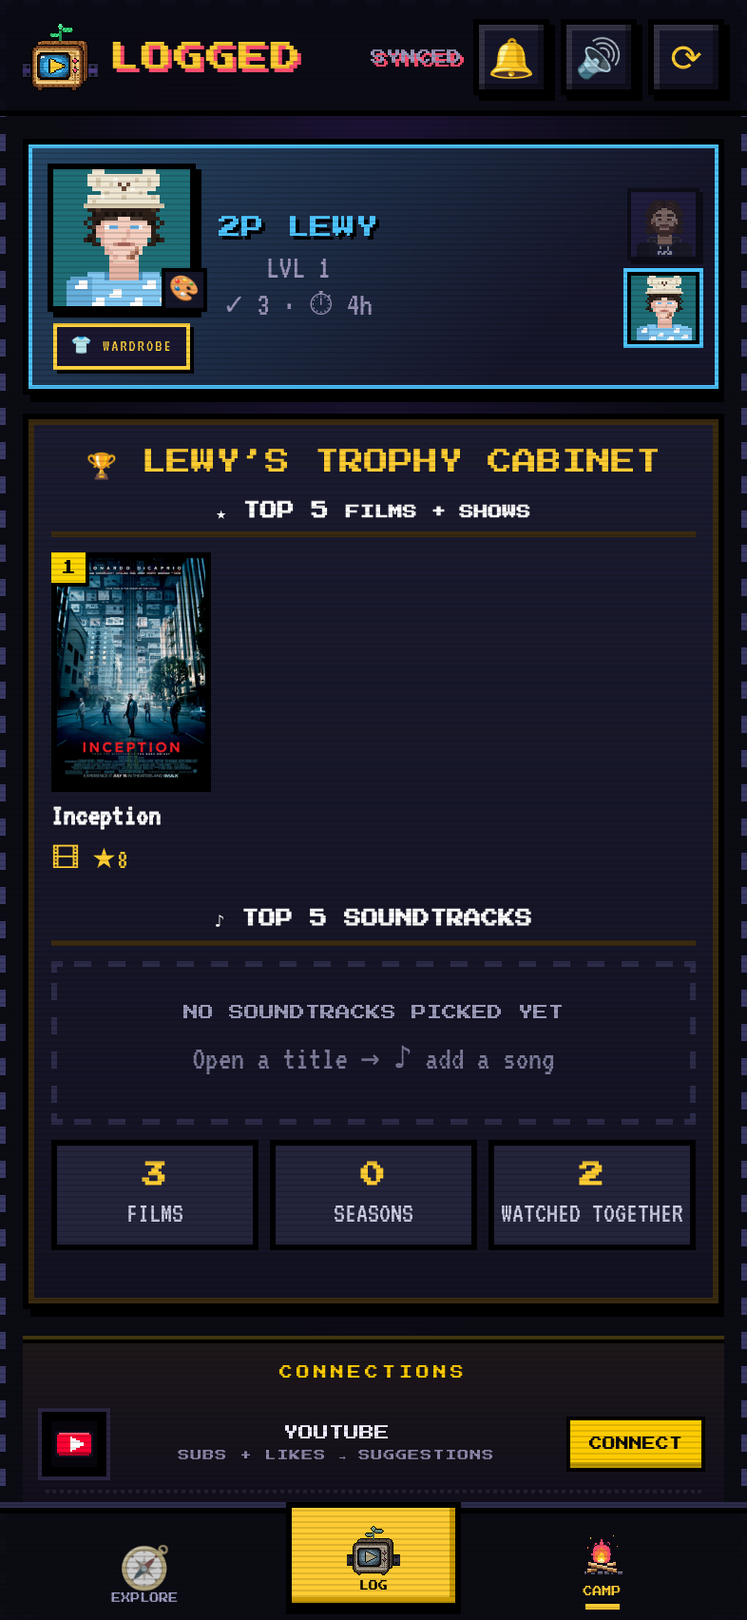
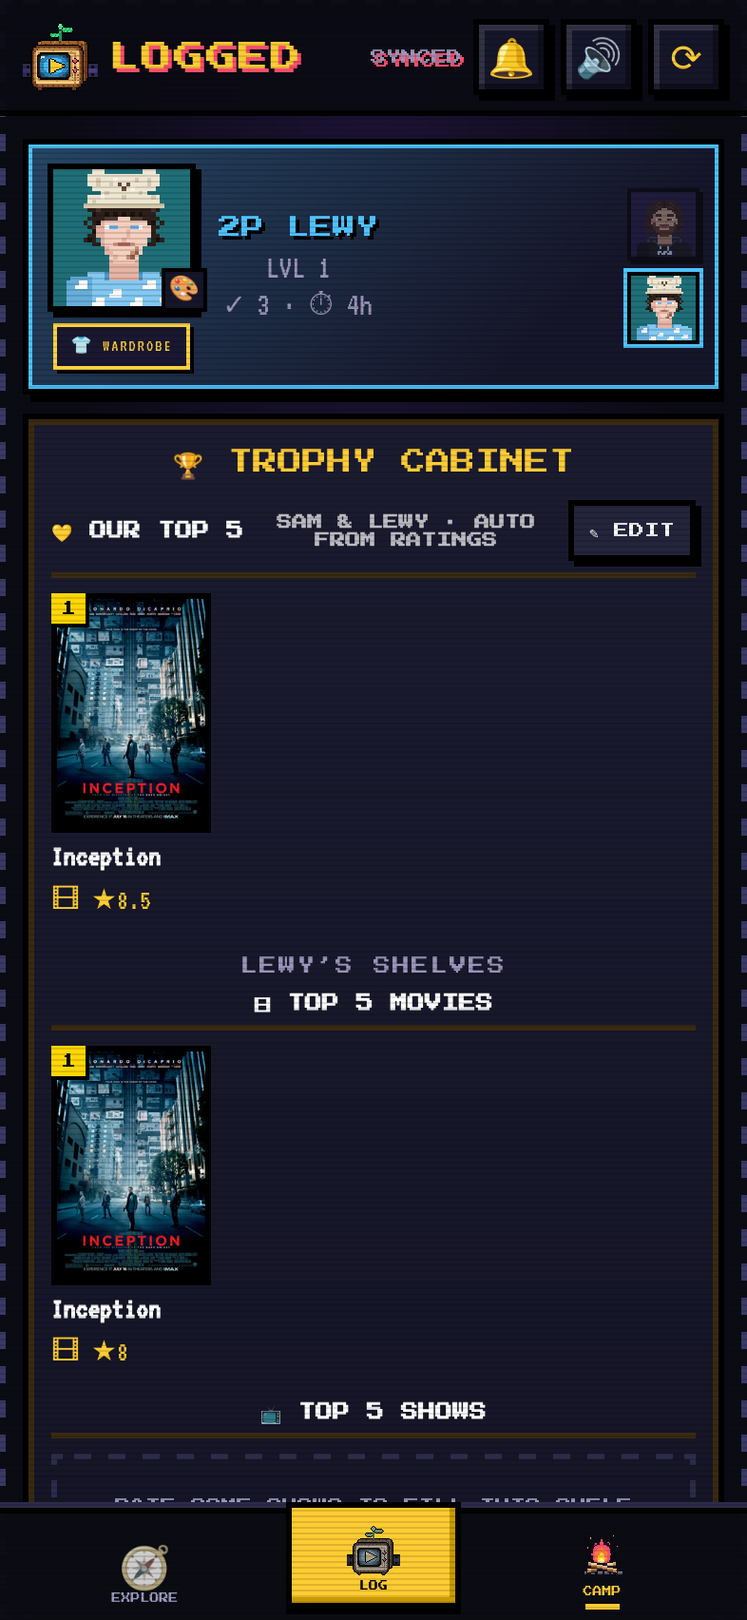
r58f: shared Our Top 5 first in cabinet; arc taps only on trusted taps

Changed region(s): [[0.0305, 0.2799, 0.9771, 0.9331]]

diff --git a/app/index.html b/app/index.html
@@ -1199,6 +1199,30 @@ body.gwon #dlg{z-index:1400}
 #gwp #adrow{display:flex;gap:6px;padding:6px 8px;flex:0 0 auto}#gwp #adb{flex:0 0 auto;max-height:42vh;overflow-y:auto;margin:0 8px 6px}
 #arch.archh{z-index:1500}#hbk58{position:fixed;inset:0;z-index:1499;background:rgba(0,0,0,.45)}
 #avPin{padding:3px;overflow:hidden;box-sizing:border-box}#avPin canvas{width:100%;height:100%;display:block;image-rendering:pixelated;box-shadow:inset 0 0 0 2px #4da3ff;outline:2px solid #4da3ff;outline-offset:-2px}#avPin.lewy canvas{outline-color:#4dd17a}
+#set58{position:fixed;inset:0;z-index:950;background:#0b0b14;overflow-y:auto;-webkit-overflow-scrolling:touch;overscroll-behavior:contain;display:none;padding:calc(10px + env(safe-area-inset-top)) 14px calc(30px + env(safe-area-inset-bottom))}#set58.open{display:block;animation:v58in .18s ease-out}
+.sth58{display:flex;align-items:center;gap:10px;margin-bottom:12px}.sth58 h2{margin:0;font-size:13px}.sth58 h2 small{display:block;font-size:9px;opacity:.7;margin-top:4px}
+.sg58{background:#16162a;border:3px solid #000;box-shadow:4px 4px 0 #000;margin:0 0 14px;padding:10px 12px}.sg58 h4{font:10px var(--pix);color:#ffcc33;margin:2px 0 8px}
+.st58{display:flex;align-items:center;justify-content:space-between;gap:10px;padding:10px 0;border-top:2px solid #22223a;width:100%;background:none;border-left:0;border-right:0;border-bottom:0;color:inherit;text-align:left;font:inherit;box-shadow:none}.sg58 h4+.st58{border-top:0}
+.st58 span{flex:1;min-width:0}.st58 b{display:block;font-size:18px;font-weight:normal}.st58 small{display:block;font-size:14px;opacity:.65}.st58 em{font-style:normal;font-size:22px;color:#ffcc33}.stb.warn b{color:#ff8fa3}
+.st58 input[type=checkbox]{position:absolute;opacity:0;width:1px;height:1px}.st58 i{flex:0 0 44px;height:24px;background:#2c2c4a;border:3px solid #000;position:relative}.st58 i::after{content:"";position:absolute;top:2px;left:2px;width:14px;height:14px;background:#9a94b8;transition:left .12s steps(3)}
+.st58 input:checked+i{background:#3ddc84}.st58 input:checked+i::after{left:22px;background:#fff}
+.st58 select{background:#000;color:#fff;border:3px solid #000;box-shadow:inset 0 0 0 2px #2c2c4a;font:16px inherit;padding:6px 8px;max-width:45%}
+.sn58{font:8px var(--pix);color:#9a94b8;margin:12px 0 4px}.sn58.dim{font:14px inherit;opacity:.6}.sti .ui-btn{font-size:8px;padding:6px 8px}
+#set58 .conn{margin:0}
+body.rm58 *{animation-duration:.01ms!important;transition-duration:.01ms!important}
+#set58 .conn h4{display:none}
+#set58 .st58 select{-webkit-appearance:none;appearance:none;background:#000 !important;color:#ffcc33 !important;font:9px var(--pix);padding:9px 26px 9px 10px;background-image:linear-gradient(45deg,transparent 50%,#ffcc33 50%),linear-gradient(135deg,#ffcc33 50%,transparent 50%)!important;background-position:calc(100% - 13px) 50%,calc(100% - 8px) 50%!important;background-size:5px 5px!important;background-repeat:no-repeat!important;border-radius:0}
+.tm58{max-height:62vh;overflow-y:auto;-webkit-overflow-scrolling:touch;overscroll-behavior:contain}.tm58 .h small{opacity:.6;margin-left:6px}.tm58 .via{color:#7cdcff}
+/* r58: hide scrollbars everywhere, keep scrolling */
+*{scrollbar-width:none;-ms-overflow-style:none}*::-webkit-scrollbar{display:none;width:0;height:0}
+/* r58: no zoom anywhere — double-tap (touch-action), input-focus zoom (>=16px) */
+html,body,body *{touch-action:manipulation}
+input,select,textarea{font-size:16px!important}
+body.ytfull58 #ytpage,body.ytfull58 body>main{pointer-events:none}
+.ot58 h4{display:flex;align-items:center;gap:8px;flex-wrap:wrap}.ot58 h4 small{flex:1;font-size:8px;opacity:.7}.ot58 .otb{font-size:8px;padding:6px 8px}
+.otl{list-style:none;margin:0;padding:0}.otl li{display:flex;align-items:center;gap:6px;padding:6px 0;border-top:2px solid #22223a}.otl li b{color:#ffcc33;width:18px}.otl li span{flex:1;min-width:0;overflow:hidden;text-overflow:ellipsis;white-space:nowrap;font-size:18px}.otl .ui-btn{font-size:9px;padding:6px 8px}
+.otadd{display:flex;align-items:center;gap:8px;margin:8px 0;font:8px var(--pix);color:#ffcc33}.otadd select{flex:1;min-width:0;background:#000;color:#fff;border:3px solid #000;padding:8px}
+.cbdv{font:9px var(--pix);color:#9a94b8;text-align:center;margin:14px 0 4px;letter-spacing:1px}
 </style></head><body>
 <div id="splash" aria-label="Logged"></div>
 <header><div class="hin">
@@ -5269,7 +5293,7 @@ var _ytDraw58 = ytDraw; ytDraw = function () { var F = YH.feed; if (F && F.rec &
 var _logItems58 = logItems; logItems = function () { var L = _logItems58.apply(this, arguments), by = function (t) { return L.filter(function (x) { return x.t === t; })[0]; };
   return [by('INTERESTED'), by('LOGGING'), { ic: '<span class="aplus">+</span>', t: 'LOG IT', main: 1, go: function () { $('fab').onclick(); } }, by('LOGGED')].filter(Boolean); };
 /* arc layout: Interested (far left) · Logging · LOG IT (top centre, highlighted) · Logged (right) */
-var _archOpen58 = archOpen; archOpen = function (key, items) { var r = _archOpen58.apply(this, arguments); if (key === 'log') { var P = [[12, 66], [31, 30], [50, 14], [80, 52]]; [].forEach.call(document.querySelectorAll('#arch [data-archi]'), function (b, i) { var p = P[i]; if (p && items.length === 4) { b.style.left = p[0] + '%'; b.style.top = p[1] + '%'; } if (items[i] && items[i].main) b.classList.add('main58'); }); } return r; };
+var _archOpen58 = archOpen; archOpen = function (key, items) { [].forEach.call(document.querySelectorAll('#arch'), function (x) { x.remove(); }); var r = _archOpen58.apply(this, arguments); if (key === 'log') { var P = [[12, 66], [31, 30], [50, 14], [80, 52]]; [].forEach.call(document.querySelectorAll('#arch [data-archi]'), function (b, i) { var p = P[i]; if (p && items.length === 4) { b.style.left = p[0] + '%'; b.style.top = p[1] + '%'; } if (items[i] && items[i].main) b.classList.add('main58'); }); } return r; };
 var _navHi58 = r56NavHi; r56NavHi = function () { _navHi58.apply(this, arguments); setTimeout(function () { var yt = $('ytpage') && $('ytpage').classList.contains('open'), C = document.querySelector('#nav [data-v=stats]'), E = document.querySelector('#nav [data-v=home]'); C && C.classList.toggle('on', !yt && view === 'stats'); if (yt && E) E.classList.add('on'); avPin(); }, 40); };
 var _renderHome58 = renderHome; renderHome = function () { var r = _renderHome58.apply(this, arguments); try { var V = $('v-home'); if (V && !$('q').value.trim() && !V.querySelector('#ytTile')) V.insertAdjacentHTML('afterbegin', '<button id="ytTile" class="ui-btn" aria-label="Open YouTube"><span class="yti58">' + (typeof ytI === 'function' ? ytI(34) : '▶') + '</span><span><b>YOUTUBE</b><small>For you · history · trailers · group watch</small></span><i>▶</i></button>'); } catch (e) {} return r; };
 document.addEventListener('click', function (e) { if (e.target.closest && e.target.closest('#ytTile')) { e.stopImmediatePropagation(); e.preventDefault(); SFX.tap && SFX.tap(); navTap('navYT'); r56NavHi(); } }, true);
@@ -5323,17 +5347,131 @@ var _archClose58 = archClose; archClose = function () { var b = $('hbk58'); if (
 /* ---------- r58e: CAMP — cabinet was hard-wired to Sam (statWho defaulted to 'sam') and used the COMBINED score; now the profile being viewed (defaults to the logged-in person), their own ratings/songs.
    Order: TOP 5 (films + shows) → TOP 5 SOUNDTRACKS → stats (LOGGED/HOURS dropped: already in the profile header) ---------- */
 try { statWho = me(); } catch (e) {}
+function shelf58(t, L, empty, tile) { return '<div class="cbs"><h4>' + t + '</h4>' + (L.length ? '<div class="cbrow">' + L.map(tile).join('') + '</div>' : uiState('empty', empty)) + '</div>'; }
 cabinetHtml = function () { var p = (typeof statWho !== 'undefined' && statWho) || me(), P2 = p === 'sam' ? 'SAM' : 'LEWY', rt = function (r) { return num(r[p + 'Rating']) || 0; };
   var W = rows.filter(function (r) { return !isYT(r) && isY(r[p + 'Watched']); }), mv = W.filter(function (r) { return r.type === 'Movie'; }), tv = W.filter(function (r) { return r.type === 'TV Show'; });
   var rated = W.filter(function (r) { return rt(r) > 0; }), avg = rated.length ? rated.reduce(function (t, r) { return t + rt(r); }, 0) / rated.length : 0, both = W.filter(function (r) { return isY(r.samWatched) && isY(r.lewyWatched); }).length;
-  var top5 = rated.slice().sort(function (a, b) { return rt(b) - rt(a) || b.row - a.row; }).slice(0, 5);
+  var srt = function (a, b) { return rt(b) - rt(a) || b.row - a.row; }, top5m = rated.filter(function (r) { return r.type === 'Movie'; }).sort(srt).slice(0, 5), top5t = rated.filter(function (r) { return r.type === 'TV Show'; }).sort(srt).slice(0, 5);
+  var yw = function (r) { return Object.keys(((r.ytw || {})[p]) || {}).length; }, topY = rows.filter(function (r) { return isYT(r) && (isY(r[p + 'Watched']) || r[p + 'Watched'] === 'As we speak' || yw(r)); }).sort(function (a, b) { return rt(b) - rt(a) || yw(b) - yw(a) || b.row - a.row; }).slice(0, 5);
+  var ytile = function (r, i) { var id = r.ytm && r.ytm.k === 'video' ? r.ytm.id : '', th = id ? 'https://i.ytimg.com/vi/' + id + '/mqdefault.jpg' : (posters[r.title] || ''); return '<button class="cbt cby" data-open="' + r.row + '"><span class="cbr">' + (i + 1) + '</span>' + (th ? '<img loading="lazy" src="' + esc(th) + '" alt="">' : '<i>▶</i>') + '<b>' + esc(r.title.replace(/ \(Channel\)$/, '')) + '</b><small>' + (rt(r) ? '★' + rt(r) : esc((r.ytm && r.ytm.ch) || 'YOUTUBE')) + '</small></button>'; };
   var S = {}; rows.forEach(function (r) { var L = ((r.themeL || {})[p] || []).slice(), o = (r.theme || {})[p]; if (o && o.n) L.push(o); L.forEach(function (c, i) { var k = (c.n + '|' + (c.a || '')).toLowerCase(); if (!S[k]) S[k] = { n: c.n, a: c.a || '', pv: c.pv || '', c: 1, t: r.title, sc: rt(r), i: i }; }); });
   var snd = Object.keys(S).map(function (k) { return S[k]; }).sort(function (a, b) { return b.sc - a.sc || a.i - b.i || a.n.localeCompare(b.n); }).slice(0, 5); R56.snd = snd;
   var tile = function (r, i) { var ps = posters[r.title]; return '<button class="cbt" data-open="' + r.row + '"><span class="cbr">' + (i + 1) + '</span>' + (ps && /^http|^data:/.test(ps) ? '<img loading="lazy" src="' + esc(ps) + '" alt="">' : '<i>' + esc(r.title[0]) + '</i>') + '<b>' + esc(baseTitle(r.title)) + '</b><small>' + (r.type === 'TV Show' ? '📺 ' : '🎞 ') + '★' + rt(r) + '</small></button>'; };
-  return '<section class="cab ' + p + '" id="cab" data-who="' + p + '"><h3 class="ui-h">🏆 ' + P2 + '\u2019S TROPHY CABINET</h3>' +
-    '<div class="cbs"><h4>★ TOP 5 <small>FILMS + SHOWS</small></h4>' + (top5.length ? '<div class="cbrow">' + top5.map(tile).join('') + '</div>' : uiState('empty', 'RATE SOME TITLES TO FILL THIS SHELF')) + '</div>' +
+  return '<section class="cab ' + p + '" id="cab" data-who="' + p + '"><h3 class="ui-h">🏆 TROPHY CABINET</h3><div class="cbdv">' + P2 + '\u2019S SHELVES</div>' +
+    shelf58('🎞 TOP 5 MOVIES', top5m, 'RATE SOME FILMS TO FILL THIS SHELF', tile) + shelf58('📺 TOP 5 SHOWS', top5t, 'RATE SOME SHOWS TO FILL THIS SHELF', tile) +
     '<div class="cbs"><h4>♪ TOP 5 SOUNDTRACKS</h4>' + (snd.length ? '<ol class="cbsnd">' + snd.map(function (s, i) { return '<li><button class="oxmp" data-cbsnd="' + i + '" aria-label="Play ' + esc(s.n) + '">▶</button><span><b>' + esc(s.n) + '</b> <small>' + esc(s.a) + ' · ' + esc(baseTitle(s.t)) + '</small></span></li>'; }).join('') + '</ol>' : uiState('empty', 'NO SOUNDTRACKS PICKED YET', 'Open a title → ♪ add a song')) + '</div>' +
+    shelf58('▶ TOP 5 YOUTUBE', topY, 'LOG SOME YOUTUBE TO FILL THIS SHELF', ytile) +
     '<div class="cbst">' + [[mv.length, 'FILMS'], [tv.length, 'SEASONS'], [both, 'WATCHED TOGETHER']].map(function (x) { return '<div><b>' + x[0] + '</b><small>' + x[1] + '</small></div>'; }).join('') + '</div></section>'; };
 (function () { var fit = function () { var a = $('avPin'), b = $('inboxB'); if (a && b && b.offsetWidth) { a.style.width = a.style.minWidth = a.style.maxWidth = b.offsetWidth + 'px'; a.style.height = b.offsetHeight + 'px'; a.style.flex = '0 0 ' + b.offsetWidth + 'px'; } }; setTimeout(fit, 900); setInterval(fit, 3000); window.addEventListener('resize', fit); })();
+/* ---------- r58f: shared OUR TOP 5 (both edit; server-side; auto-filled from combined ratings until edited) — first in the cabinet ---------- */
+var OT58 = { o: null, edit: false };
+function ourTopList58() { var W = rows.filter(function (r) { return !isYT(r) && (isY(r.samWatched) || isY(r.lewyWatched)); });
+  if (OT58.o && OT58.o.list) return OT58.o.list.map(function (t) { return rows.filter(function (r) { return r.title === t; })[0]; }).filter(Boolean);
+  return W.filter(function (r) { return score(r) > 0; }).sort(function (a, b) { return score(b) - score(a) || b.row - a.row; }).slice(0, 5); }
+function ourTopHtml58() { var L = ourTopList58(), auto = !(OT58.o && OT58.o.list);
+  var tile = function (r, i) { var ps = posters[r.title]; return '<button class="cbt" data-open="' + r.row + '"><span class="cbr">' + (i + 1) + '</span>' + (ps && /^http|^data:/.test(ps) ? '<img loading="lazy" src="' + esc(ps) + '" alt="">' : '<i>' + esc(r.title[0]) + '</i>') + '<b>' + esc(baseTitle(r.title)) + '</b><small>' + (r.type === 'TV Show' ? '📺' : '🎞') + (score(r) ? ' ★' + (Math.round(score(r) * 10) / 10) : '') + '</small></button>'; };
+  var head = '<h4>💛 OUR TOP 5 <small>SAM & LEWY' + (auto ? ' · AUTO FROM RATINGS' : ' · EDITED BY ' + String(OT58.o.by || '').toUpperCase()) + '</small><button class="ui-btn otb" data-ot="edit">' + (OT58.edit ? '✓ DONE' : '✎ EDIT') + '</button></h4>';
+  if (!OT58.edit) return '<div class="cbs ot58">' + head + (L.length ? '<div class="cbrow">' + L.map(tile).join('') + '</div>' : uiState('empty', 'RATE SOME TITLES TOGETHER')) + '</div>';
+  var have = {}; L.forEach(function (r) { have[r.title] = 1; });
+  var cand = rows.filter(function (r) { return !isYT(r) && (isY(r.samWatched) || isY(r.lewyWatched)) && !have[r.title]; }).sort(function (a, b) { return (score(b) || 0) - (score(a) || 0); });
+  return '<div class="cbs ot58 ed">' + head + '<ol class="otl">' + L.map(function (r, i) { return '<li><b>' + (i + 1) + '</b><span>' + esc(baseTitle(r.title)) + '</span><button class="ui-btn" data-ot="up:' + i + '" aria-label="Move up"' + (i ? '' : ' disabled') + '>▲</button><button class="ui-btn" data-ot="dn:' + i + '" aria-label="Move down"' + (i < L.length - 1 ? '' : ' disabled') + '>▼</button><button class="ui-btn" data-ot="rm:' + i + '" aria-label="Remove">✕</button></li>'; }).join('') + '</ol>' +
+    (L.length < 5 ? '<label class="otadd">+ ADD <select data-otadd="1"><option value="">Pick a title…</option>' + cand.map(function (r) { return '<option value="' + esc(r.title) + '">' + esc(r.title) + '</option>'; }).join('') + '</select></label>' : '') + '<button class="ui-btn" data-ot="auto">↺ RESET TO AUTO</button></div>'; }
+function ourTopSave58(L) { var list = L.map(function (r) { return r.title; }); OT58.o = { list: list, by: me() }; ourTopPaint58(); run('setOurTop', [list], function (o) { if (o) OT58.o = o; savedTick('SAVED · BOTH PHONES'); ourTopPaint58(); }, function () { toast('⚠ Not saved — try again'); }); }
+function ourTopPaint58() { var x = document.querySelector('#cab .ot58'); if (x) x.outerHTML = ourTopHtml58(); }
+setTimeout(function () { run('getOurTop', [], function (o) { OT58.o = o && o.list && o.list.length ? o : null; ourTopPaint58(); }, function () {}); }, 1500);
+var _cab58f = cabinetHtml; /* keep header */ cabinetHtml = function () { return _cab58f.apply(this, arguments).replace(/(<h3 class="ui-h">[^<]*<\/h3>)/, '$1' + ourTopHtml58()); };
+document.addEventListener('click', function (e) { var b = e.target.closest && e.target.closest('#cab [data-ot]'); if (!b) return; e.stopImmediatePropagation(); e.preventDefault(); SFX.tap && SFX.tap(); var a = b.dataset.ot, L = ourTopList58();
+  if (a === 'edit') { OT58.edit = !OT58.edit; return ourTopPaint58(); } if (a === 'auto') return confirm8('↺', 'RESET OUR TOP 5?', 'Back to auto from your ratings', 'RESET', function () { OT58.o = null; run('setOurTop', [[]], function () { OT58.o = null; ourTopPaint58(); }); ourTopPaint58(); });
+  var q = a.split(':'), i = +q[1]; if (q[0] === 'up' && i > 0) { var t = L[i]; L[i] = L[i - 1]; L[i - 1] = t; } else if (q[0] === 'dn' && i < L.length - 1) { var t2 = L[i]; L[i] = L[i + 1]; L[i + 1] = t2; } else if (q[0] === 'rm') L.splice(i, 1); else return; ourTopSave58(L); }, true);
+document.addEventListener('change', function (e) { var s = e.target; if (!s.dataset || !s.dataset.otadd || !s.value) return; var L = ourTopList58(), r = rows.filter(function (x) { return x.title === s.value; })[0]; if (r && L.length < 5) { L.push(r); ourTopSave58(L); } }, true);
+
+/* ===== r58: EXPLORE + CAMP arcs (same style as LOG) and a real per-person SETTINGS page (auto-saved server-side) ===== */
+function mainTo58(el) { var Mn = document.querySelector('body>main'); if (el && Mn) Mn.scrollTop = Math.max(0, el.getBoundingClientRect().top - Mn.getBoundingClientRect().top + Mn.scrollTop - 8); }
+function trvHub58() { trvShow('<div class="trvlob"><div class="big">' + (typeof tvi === 'function' ? tvi('daily', 64) : '🧠') + '</div><p>TRIVIA</p><button class="ui-btn y" data-trv="daily">📅 TODAY\u2019S DAILY</button><button class="ui-btn" data-trv="live">⚔ LIVE 1v1</button></div>'); }
+function exItems58() { return [{ ic: '<span class="nyti">' + (typeof ytI === 'function' ? ytI(22) : '▶') + '</span>', t: 'YOUTUBE', go: function () { navTap('navYT'); r56NavHi(); } },
+  { ic: '<span>🧭</span>', t: 'BROWSE', main: 1, go: function () { var yp = $('ytpage'); if (yp && yp.classList.contains('open')) { var x = yp.querySelector('[data-ytx]'); x && x.click(); } show('home'); document.querySelector('body>main').scrollTop = 0; r56NavHi(); } },
+  { ic: '<span>🧠</span>', t: 'TRIVIA', go: function () { trvHub58(); } }]; }
+function campGo58(sel) { show('stats'); r56NavHi(); setTimeout(function () { if (!sel) { document.querySelector('body>main').scrollTop = 0; return; } mainTo58(document.querySelector(sel)); }, 120); }
+function campItems58() { return [{ ic: '<span>👕</span>', t: 'WARDROBE', go: function () { try { wrOpen(me()); } catch (e) { campGo58(); } } },
+  { ic: '<span>🎖</span>', t: 'BADGES', go: function () { campGo58('#bdg56,.bdgs,[id^=bdg]'); } },
+  { ic: '<span class="ncamp"></span>', t: 'PROFILE', main: 1, go: function () { statWho = me(); campGo58(); } },
+  { ic: '<span>📊</span>', t: 'STATS', go: function () { campGo58('#st52,.sgrid'); } },
+  { ic: '<span>⚙</span>', t: 'SETTINGS', go: function () { setOpen58(); } }]; }
+window.addEventListener('click', function (e) { var b = e.target.closest && e.target.closest('#nav [data-v=home],#nav [data-v=stats]'); if (!b || !e.isTrusted) return; e.stopImmediatePropagation(); e.preventDefault(); SFX.tap && SFX.tap();
+  var k = b.dataset.v === 'home' ? 'explore' : 'camp'; if (R56.arch && R56.arch.key === k) { archClose(); (k === 'explore' ? exItems58()[1] : campItems58()[2]).go(); return; }
+  var L = k === 'explore' ? exItems58() : campItems58(); [].forEach.call(document.querySelectorAll('#arch'), function (x) { x.remove(); }); R56.arch = null; archOpen(k, L, { label: k === 'explore' ? 'Explore menu' : 'Camp menu', cls: 'archl' });
+  var A = $('arch'); if (A) { var P = k === 'explore' ? [[18, 58], [50, 22], [82, 58]] : [[10, 70], [27, 34], [50, 16], [73, 34], [90, 70]];
+    [].forEach.call(A.querySelectorAll('[data-archi]'), function (x, i) { if (P[i]) { x.style.left = P[i][0] + '%'; x.style.top = P[i][1] + '%'; } if (L[i] && L[i].main) x.classList.add('main58'); }); var cs = A.querySelector('.ncamp'), src = document.querySelector('#nav [data-v=stats] .ncamp'); if (cs && src) cs.innerHTML = src.innerHTML; } }, true);
+/* ---------- SETTINGS ---------- */
+var SETL = (function () { try { return JSON.parse(localStorage['lg_set_' + me()] || '{}'); } catch (e) { return {}; } })();
+var SETD = { nLogs: true, nTrivia: true, nEps: true, nRate: true, qOn: false, qFrom: 22, qTo: 8, vol: 100, adAuto: true, sHist: true, sLogged: true, sInt: true, sTrl: true, ytNoShorts: false, ytPause: false, rm: false, fs: 100, tab: 'home' };
+function sv(k) { return k in SETL ? SETL[k] : SETD[k]; }
+function setPut58(k, v) { SETL[k] = v; try { localStorage['lg_set_' + me()] = JSON.stringify(SETL); } catch (e) {} setApply58(); var o = {}; o[k] = v; run('setSettings', [o], function () { savedTick && savedTick('SAVED'); }, function () { toast('⚠ Not saved to server — kept on this phone'); }); }
+setTimeout(function () { run('getSettings', [], function (s) { if (s && typeof s === 'object') { SETL = Object.assign({}, SETL, s); try { localStorage['lg_set_' + me()] = JSON.stringify(SETL); } catch (e) {} setApply58(); } }, function () {}); }, 1200);
+function setApply58() { document.body.classList.toggle('rm58', !!sv('rm')); var Mn = document.querySelector('body>main'); if (Mn) Mn.style.zoom = sv('fs') === 100 ? '' : (sv('fs') / 100); try { YH.nosh = !!sv('ytNoShorts'); } catch (e) {} try { TVP = !!sv('nTrivia'); localStorage.lg_tvpush = TVP ? '1' : '0'; } catch (e) {} }
+setApply58(); setTimeout(function () { var t = sv('tab'); if (t && t !== 'home') { try { if (t === 'int') navTap('navInt'); else if (t === 'logging') navTap('navLog'); else show(t); r56NavHi(); } catch (e) {} } }, 600);
+/* wiring: player volume, ad-break auto-open, YT rec sources, history pause */
+var _trlQ58 = trlQ; trlQ = function () { var q = _trlQ58.apply(this, arguments); return sv('vol') < 100 && !/[?&]vol=/.test(q) ? q + '&vol=' + sv('vol') : q; };
+var _adStart58s = adStart; adStart = function () { if (AD2.auto && !sv('adAuto')) { AD2.auto = false; ADB.still = 0; return; } return _adStart58s.apply(this, arguments); };
+var _ytSeeds58 = ytSeeds; ytSeeds = function () { var keep = { hist: sv('sHist'), logged: sv('sLogged'), int: sv('sInt'), trl: sv('sTrl') }; if (keep.hist && keep.logged && keep.int && keep.trl) return _ytSeeds58.apply(this, arguments);
+  var p = me(), s = [], add = function (x) { x = String(x || '').trim(); if (x && s.indexOf(x) < 0) s.push(x); };
+  if (keep.hist) try { ytSecHist().slice(0, 12).forEach(function (v) { v.ch && add(v.ch); }); } catch (e) {}
+  if (keep.logged) rows.filter(isYT).filter(function (r) { return isY(r[p + 'Watched']) || r[p + 'Watched'] === 'As we speak'; }).forEach(function (r) { add((r.ytm && r.ytm.ch) || r.title.replace(/ \(Channel\)$/, '')); });
+  if (keep.int) try { ytSecInt().forEach(function (v) { add(v.ch || v.t); }); } catch (e) {}
+  s = s.slice(0, 3); if (keep.trl) rows.filter(function (r) { return !isYT(r) && !isWatched(r); }).slice(-2).forEach(function (r) { add(baseTitle(r.title) + ' official trailer'); }); return s.slice(0, 4); };
+var _ytVid58 = ytVid; ytVid = function () { if (!sv('ytPause')) return _ytVid58.apply(this, arguments); var keep = localStorage.lg_ythist; try { return _ytVid58.apply(this, arguments); } finally { if (keep == null) localStorage.removeItem('lg_ythist'); else localStorage.lg_ythist = keep; } };
+function tg58(k, t, sub) { return '<label class="st58"><span><b>' + t + '</b>' + (sub ? '<small>' + sub + '</small>' : '') + '</span><input type="checkbox" role="switch" data-set="' + k + '"' + (sv(k) ? ' checked' : '') + '><i></i></label>'; }
+function sel58(k, t, opts, sub) { return '<label class="st58"><span><b>' + t + '</b>' + (sub ? '<small>' + sub + '</small>' : '') + '</span><select data-setsel="' + k + '">' + opts.map(function (o) { return '<option value="' + o[0] + '"' + (String(sv(k)) === String(o[0]) ? ' selected' : '') + '>' + o[1] + '</option>'; }).join('') + '</select></label>'; }
+function btn58(a, t, sub, cls) { return '<button class="st58 stb ' + (cls || '') + '" data-seta="' + a + '"><span><b>' + t + '</b>' + (sub ? '<small>' + sub + '</small>' : '') + '</span><em>›</em></button>'; }
+function grp58(t, h) { return '<section class="sg58"><h4>' + t + '</h4>' + h + '</section>'; }
+function setHtml58() { var p = me(), hrs = []; for (var i = 0; i < 24; i++) hrs.push([i, (i % 12 || 12) + (i < 12 ? 'am' : 'pm')]);
+  var nf = (NFM[p] || []), hid = Object.keys(INT[p] || {}).filter(function (k) { return INT[p][k].v === 'n'; });
+  return '<div class="sth58"><button class="ui-btn" data-seta="close">◀ BACK</button><h2 class="ui-h">⚙ SETTINGS <small>' + (p === 'sam' ? 'SAM' : 'LEWY') + ' · SAVES AUTOMATICALLY</small></h2></div>' +
+    grp58('👤 PROFILE', btn58('outfit', 'Outfit', 'Wardrobe — what your avatar wears') + btn58('bg', 'Background', 'Your Camp scene')) +
+    grp58('🔗 CONNECTIONS', '<div id="setConn">' + (typeof connCard === 'function' ? connCard(p) : '') + '</div>') +
+    grp58('🔔 NOTIFICATIONS', tg58('nLogs', (p === 'sam' ? 'Lewy' : 'Sam') + ' logs something', 'Finished / started / rated') + tg58('nEps', 'New episodes & streaming changes') + tg58('nRate', '“Rate it?” after watching') + tg58('qOn', 'Quiet hours', 'No pings in this window (Sydney time)') + (sv('qOn') ? sel58('qFrom', 'From', hrs) + sel58('qTo', 'Until', hrs) : '')) +
+    grp58('▶ PLAYBACK', sel58('vol', 'Video volume', [[100, '100%'], [75, '75%'], [50, '50%'], [25, '25%']], 'Starting volume for videos & trailers') + tg58('adAuto', 'Ad-break game opens itself', 'When an ad starts, pop up a minigame')) +
+    grp58('📺 YOUTUBE', '<p class="sn58">RECOMMENDATIONS USE</p>' + tg58('sHist', 'Your YouTube history') + tg58('sLogged', 'Channels you logged') + tg58('sInt', 'Videos you saved (♥)') + tg58('sTrl', 'Trailers for titles on your list') + tg58('ytNoShorts', 'Hide Shorts') + tg58('ytPause', 'Pause watch history', 'Videos you open aren\u2019t added') + btn58('ythclr', 'Clear watch history', 'On this phone', 'warn')) +
+    grp58('🧠 TRIVIA', tg58('nTrivia', 'Daily quiz reminder', 'Ping at 9pm + when the other person finishes')) +
+    grp58('🖥 DISPLAY', tg58('rm', 'Reduce motion', 'Fewer animations') + tg58('snd', 'App sounds', 'Bleeps & SFX') + sel58('fs', 'Text size', [[90, 'Small'], [100, 'Normal'], [110, 'Large'], [120, 'Extra large']]) + sel58('tab', 'Open on', [['home', 'Explore'], ['all', 'Logged'], ['int', 'Interested'], ['logging', 'Logging'], ['stats', 'Camp']])) +
+    grp58('🔒 PRIVACY & DATA', '<p class="sn58">NOT FOR ME (' + nf.length + ')</p>' + (nf.length ? nf.map(function (t) { return '<div class="st58 sti"><span><b>' + esc(t) + '</b></span><button class="ui-btn" data-setnfm="' + esc(t) + '">RESTORE</button></div>'; }).join('') : '<p class="sn58 dim">Nothing hidden</p>') +
+      '<p class="sn58">HIDDEN FROM INTERESTED (' + hid.length + ')</p>' + (hid.length ? hid.map(function (k) { var o = INT[p][k]; return '<div class="st58 sti"><span><b>' + esc(o.t || k.replace(/^\w+:/, '')) + '</b></span><button class="ui-btn" data-setunhide="' + esc(k) + '">UN-HIDE</button></div>'; }).join('') : '<p class="sn58 dim">Nothing hidden</p>') +
+      btn58('rsclr', 'Clear search history', 'App + YouTube searches', 'warn') + btn58('mhclr', 'Clear Mood Pick history', '', 'warn') + btn58('export', 'Export my data', 'Download a JSON file')) +
+    grp58('ℹ ABOUT', '<div class="st58"><span><b>Version</b><small>' + esc(window.APPV58 || 'r58') + '</small></span></div>' + btn58('new', 'What\u2019s new') + btn58('bug', 'Report a bug', 'Opens a GitHub issue')); }
+function setOpen58() { archClose(); var x = $('set58'); if (!x) { document.body.insertAdjacentHTML('beforeend', '<div id="set58" role="dialog" aria-label="Settings"></div>'); x = $('set58'); } SETL.snd = !muted; x.innerHTML = setHtml58(); x.classList.add('open'); x.scrollTop = 0; }
+function setRedraw58() { var x = $('set58'); if (!x || !x.classList.contains('open')) return; var st = x.scrollTop; SETL.snd = !muted; x.innerHTML = setHtml58(); x.scrollTop = st; }
+document.addEventListener('change', function (e) { var t = e.target; if (!t.closest || !t.closest('#set58')) return;
+  if (t.dataset.set) { if (t.dataset.set === 'snd') { if (t.checked === muted) $('mute').onclick(); return; } setPut58(t.dataset.set, t.checked); if (t.dataset.set === 'qOn') setRedraw58(); if (/^s(Hist|Logged|Int|Trl)$/.test(t.dataset.set)) { try { YH.feed = null; } catch (x) {} } }
+  if (t.dataset.setsel) { var v = t.value; setPut58(t.dataset.setsel, /^\d+$/.test(v) ? +v : v); } }, true);
+document.addEventListener('click', function (e) { var b = e.target.closest && e.target.closest('#set58 [data-seta],#set58 [data-setnfm],#set58 [data-setunhide]'); if (!b) return; e.stopImmediatePropagation(); e.preventDefault(); SFX.tap && SFX.tap(); var a = b.dataset.seta, p = me();
+  if (b.dataset.setnfm) { run('setNotForMe', [b.dataset.setnfm, false], function (o) { if (o) NFM = o; setRedraw58(); savedTick('RESTORED'); }); return; }
+  if (b.dataset.setunhide) { intSet(b.dataset.setunhide, ''); setTimeout(setRedraw58, 300); return; }
+  if (a === 'close') return $('set58').classList.remove('open');
+  if (a === 'outfit') { $('set58').classList.remove('open'); return wrOpen(p); }
+  if (a === 'bg') { $('set58').classList.remove('open'); campGo58(); return setTimeout(function () { var x = document.querySelector('[data-bgpick="' + p + '"]'); x && x.click(); }, 300); }
+  if (a === 'ythclr') return confirm8('🗑', 'CLEAR HISTORY?', 'YouTube watch history on this phone', 'CLEAR', function () { localStorage.removeItem('lg_ythist'); savedTick('CLEARED'); });
+  if (a === 'rsclr') return confirm8('🗑', 'CLEAR SEARCHES?', 'App + YouTube recent searches', 'CLEAR', function () { RS = []; localStorage.lg_recentq = '[]'; try { YRS = []; localStorage.lg_ytrs = '[]'; } catch (x) {} savedTick('CLEARED'); });
+  if (a === 'mhclr') return confirm8('🗑', 'CLEAR MOOD HISTORY?', 'Your past Mood Pick answers', 'CLEAR', function () { run('clearMoodHist', [], function () { savedTick('CLEARED'); }); });
+  if (a === 'export') { var d = { exported: new Date().toISOString(), who: p, rows: rows, interested: INT[p] || {}, notForMe: NFM[p] || [], settings: SETL, ytHistory: ytLS('lg_ythist') }, bl = new Blob([JSON.stringify(d, null, 1)], { type: 'application/json' }), u = URL.createObjectURL(bl), l = document.createElement('a'); l.href = u; l.download = 'logged-' + p + '-' + new Date().toISOString().slice(0, 10) + '.json'; document.body.appendChild(l); l.click(); setTimeout(function () { l.remove(); URL.revokeObjectURL(u); }, 1000); return; }
+  if (a === 'new') return confirm8('✨', 'WHAT\u2019S NEW', 'Explore / Log / Camp menus · Settings · Group Watch · YouTube menu & descriptions · trivia sound fix on iPhone · your own trophy cabinet', 'NICE', function () {});
+  if (a === 'bug') return window.open('https://github.com/isolaow/logged/issues/new?title=' + encodeURIComponent('Bug: ') + '&body=' + encodeURIComponent('Who: ' + p + '\nDevice: ' + navigator.userAgent + '\n\nWhat happened:\n'), '_blank'); }, true);
+/* ---------- r58: search results — no 3-cap; TITLES section (all pages) + PERSON · FILMOGRAPHY section, scrollable ---------- */
+var _renderTm58 = renderTm; renderTm = function (el, r, n, box) { if (!r || r.v !== 2 || !r.results || !r.results.length) return _renderTm58.apply(this, arguments);
+  var T = r.results.filter(function (x) { return !x.via; }), V = r.results.filter(function (x) { return x.via; }), i0 = 0;
+  var tile = function (x) { var k = box + (i0++); TM.res[k] = x; return '<button class="tm" data-tm="' + k + '">' + tmPoster(x.poster) + '<span class="ti"><b>' + esc(x.title) + '</b><small>' + (x.year || '????') + ((x.genres || []).length ? ' · ' + esc(x.genres.slice(0, 2).join(', ')) : '') + '</small>' + (x.via ? '<small class="via">' + esc(String(x.via).replace(/^[^(]*\(/, '').replace(/\)$/, '')) + '</small>' : '') + '</span>' + (inLog(x) ? '<span class="il">IN LOG</span>' : '') + '<span class="ty">' + (x.tv ? 'TV' : 'MOVIE') + '</span></button><div class="seas" id="se_' + k + '"></div>'; };
+  var ppl = (r.people || []).map(function (p) { return p.name; }), personFirst = V.length && T.length < 3;
+  var tH = T.length ? '<div class="h">🎬 TITLES <small>' + T.length + '</small></div>' + T.map(tile).join('') : '', vH = V.length ? '<div class="h">👤 ' + esc(ppl.join(' · ').toUpperCase()) + ' · FILMOGRAPHY <small>' + V.length + '</small></div>' + V.map(tile).join('') : '';
+  el.innerHTML = '<div class="tm58">' + (personFirst ? vH + tH : tH + vH) + '<div class="hint" style="font-size:13px">Data &amp; posters: TMDB</div></div>';
+  try { if (typeof pxPaint === 'function') pxPaint(); } catch (e) {} };
+/* r58: block pinch-zoom on every tab (iOS ignores user-scalable=no) */
+['gesturestart', 'gesturechange', 'gestureend'].forEach(function (ev) { document.addEventListener(ev, function (e) { e.preventDefault(); }, { passive: false }); });
+document.addEventListener('touchmove', function (e) { if (e.touches && e.touches.length > 1) e.preventDefault(); }, { passive: false });
+/* r58: ghost-tap guard — after a video opens, the list shifts/re-renders under the finger and iOS's delayed synthetic click lands on another card.
+   Card taps are ignored for 700ms after any open and while the full player is open; the list behind the player is non-interactive. */
+var GT58 = { at: 0 };
+var _ytnOpenGT = ytnOpen; ytnOpen = function (id) { var now = Date.now(); if (GT58.at && now - GT58.at < 700 && YTX.id && YTX.id !== id) { try { ytLoadLog('ghost', id, false); } catch (e) {} return; } GT58.at = now; return _ytnOpenGT.apply(this, arguments); };
+window.addEventListener('click', function (e) { var c = e.target.closest && e.target.closest('#ytpage [data-ytv],#ytpage .ytth,#ytdp [data-ytv]'); if (!c) return; var P = $('ytp'), full = P && P.classList.contains('open') && !P.classList.contains('mini');
+  if (Date.now() - GT58.at < 700 || full) { e.stopImmediatePropagation(); e.preventDefault(); try { ytLoadLog('ghost-tap', c.dataset.ytid || '', false); } catch (x) {} } }, true);
+(function () { var P = $('ytp'); if (!P) return; var f = function () { document.body.classList.toggle('ytfull58', P.classList.contains('open') && !P.classList.contains('mini')); }; new MutationObserver(f).observe(P, { attributes: true, attributeFilter: ['class'] }); f(); })();
 
 </script></body></html>

diff --git a/tests/set58.steps.js b/tests/set58.steps.js
@@ -1,0 +1,17 @@
+(async () => { const out = {}; await p.evaluate(() => { const s = document.getElementById('splash'); s && s.remove(); }); const arc = () => p.evaluate(() => [...document.querySelectorAll('#arch [data-archi]')].map(b => ({ t: b.innerText.trim().replace(/\s+/g, ' '), x: Math.round(b.getBoundingClientRect().left), m: b.classList.contains('main58') })).sort((a, b) => a.x - b.x).map(o => o.t + (o.m ? '*' : '')));
+await p.evaluate(() => navTap('all')); await p.waitForTimeout(400);
+await p.tap('#nav [data-v=home]'); await p.waitForTimeout(400); out.exArc = await arc(); await p.screenshot({ path: '/workspace/logged-site/shots/r49_arc_explore.png' });
+await p.tap('#nav [data-v=home]'); await p.waitForTimeout(500); out.exAgain = await p.evaluate(() => ({ view, arc: !!document.getElementById('arch') }));
+await p.tap('#nav [data-v=stats]'); await p.waitForTimeout(400); out.campArc = await arc(); await p.screenshot({ path: '/workspace/logged-site/shots/r49_arc_camp.png' });
+await p.tap('#nav [data-v=home]'); await p.waitForTimeout(400); out.oneAtATime = await arc();
+await p.evaluate(() => archClose()); await p.tap('#nav [data-v=stats]'); await p.waitForTimeout(400);
+const idx = await p.evaluate(() => [...document.querySelectorAll('#arch [data-archi]')].findIndex(b => /SETTINGS/.test(b.innerText))); await p.tap('#arch [data-archi="' + idx + '"]'); await p.waitForSelector('#set58.open');
+out.groups = await p.evaluate(() => [...document.querySelectorAll('#set58 .sg58 h4')].map(h => h.innerText)); await p.screenshot({ path: '/workspace/logged-site/shots/r49_settings_v2.png' });
+const before = S.calls.length; await p.tap('#set58 [data-set="rm"] + i'); await p.waitForTimeout(400); out.rm = await p.evaluate(() => document.body.classList.contains('rm58'));
+await p.selectOption('#set58 [data-setsel="fs"]', '110'); await p.waitForTimeout(300); out.zoom = await p.evaluate(() => document.querySelector('body>main').style.zoom);
+await p.tap('#set58 [data-set="qOn"] + i'); await p.waitForTimeout(400); out.quietSelects = await p.evaluate(() => !!document.querySelector('#set58 [data-setsel="qFrom"]'));
+out.saves = S.calls.slice(before).filter(c => c === 'setSettings').length; out.persist = await p.evaluate(() => JSON.parse(localStorage['lg_set_' + me()]));
+await p.evaluate(() => { document.getElementById('set58').scrollTop = 1e6; }); await p.waitForTimeout(200); await p.screenshot({ path: '/workspace/logged-site/shots/r49_settings_bottom.png' });
+out.overflow = await p.evaluate(() => { const x = document.getElementById('set58'); return x.scrollWidth <= x.clientWidth; });
+await p.tap('#set58 [data-seta="close"]'); await p.waitForTimeout(300); out.closed = await p.evaluate(() => !document.getElementById('set58').classList.contains('open'));
+await p.tap('#set58 [data-set]').catch(() => {}); console.log(JSON.stringify(out, null, 1)); console.log('errors', JSON.stringify(errs)); })()

diff --git a/tests/camp58.steps.js b/tests/camp58.steps.js
@@ -1,9 +1,10 @@
 (async () => { const out = {}; await p.evaluate(() => { const s = document.getElementById('splash'); s && s.remove(); });
 const who = await p.evaluate(() => me());
 await p.evaluate(() => navTap('stats')); await p.waitForTimeout(800);
-out.cab = await p.evaluate(() => { const c = document.getElementById('cab'); return { who: c.dataset.who, h: c.querySelector('h3').innerText, order: [...c.querySelectorAll('h4')].map(h => h.innerText.replace(/\s+/g, ' ')), top: [...c.querySelectorAll('.cbt b')].map(b => b.innerText), stats: [...c.querySelectorAll('.cbst small')].map(s => s.innerText) }; });
-out.dupStats = await p.evaluate(() => { const L = [...document.querySelectorAll('#v-stats small,#v-stats h4,#v-stats .meta')].map(e => e.innerText.trim().toUpperCase()).filter(t => /^(LOGGED|HOURS|AVG ★|FILMS|SEASONS|WATCHED TOGETHER)$/.test(t)); return L.filter((t, i) => L.indexOf(t) !== i); });
+out.cab = await p.evaluate(() => { const c = document.getElementById('cab'); return { cbdv: (c.querySelector('.cbdv') || {}).innerText, who: c.dataset.who, h: c.querySelector('h3').innerText, order: [...c.querySelectorAll('h4')].map(h => h.innerText.replace(/\s+/g, ' ')), top: [...c.querySelectorAll('.cbt b')].map(b => b.innerText), stats: [...c.querySelectorAll('.cbst small')].map(s => s.innerText) }; });
+out.dupStats = await p.evaluate(() => { const L = [...document.querySelectorAll('#v-stats h3,#v-stats h4,#v-stats .cbst small')].map(e => e.innerText.trim().toUpperCase()).filter(Boolean); return L.filter((t, i) => L.indexOf(t) !== i); });
 await p.screenshot({ path: '/workspace/logged-site/shots/r49_camp_' + who + '.png' });
+await p.tap('#cab [data-ot="edit"]'); await p.waitForTimeout(300); await p.tap('#cab [data-ot="rm:0"]').catch(() => {}); await p.waitForTimeout(300); out.ourTopAfterRm = await p.evaluate(() => (OT58.o && OT58.o.list) || 'auto'); 
 // hearts picker above overlays
 const heartTest = async (label, openFn) => { await p.evaluate(openFn); await p.waitForTimeout(500); await p.evaluate(() => { R56.noHeart = 0; intSet('r:Dune', '', {}); }); await p.waitForTimeout(300);
   await p.evaluate(() => intSet('r:Dune', 'y', { t: 'Dune' })); await p.waitForSelector('#arch.archh.open [data-archi]', { timeout: 3000 }).catch(() => {}); await p.waitForTimeout(300);

diff --git a/tests/zoom58.steps.js b/tests/zoom58.steps.js
@@ -1,0 +1,7 @@
+(async () => { await p.evaluate(() => { const s = document.getElementById('splash'); s && s.remove(); }); const res = {};
+const tabs = { explore: () => show('home'), logged: () => navTap('all'), interested: () => navTap('navInt'), logging: () => navTap('navLog'), camp: () => show('stats'), youtube: () => navTap('navYT'), settings: () => setOpen58() };
+for (const [k, f] of Object.entries(tabs)) { await p.evaluate(f); await p.waitForTimeout(700);
+  res[k] = await p.evaluate(() => { const ev = new Event('gesturestart', { cancelable: true, bubbles: true }); document.body.dispatchEvent(ev); const smallInputs = [...document.querySelectorAll('input:not([type=checkbox]):not([type=radio]):not([type=range]),select,textarea')].filter(i => i.offsetParent && parseFloat(getComputedStyle(i).fontSize) < 16).length;
+    const vp = document.querySelector('meta[name=viewport]').content; const ta = getComputedStyle(document.body).touchAction; const btn = document.querySelector('button'); return { pinchBlocked: ev.defaultPrevented, smallInputs, ta, btnTa: btn ? getComputedStyle(btn).touchAction : '', vp: /maximum-scale=1/.test(vp) && /user-scalable=no/.test(vp), scale: visualViewport ? visualViewport.scale : 1 }; });
+  await p.evaluate(() => { try { document.getElementById('set58').classList.remove('open'); const x = document.querySelector('#ytpage.open [data-ytx]'); x && x.click(); } catch (e) {} }); }
+let ok = 0, n = 0; for (const k in res) { n++; const r = res[k], pass = r.pinchBlocked && !r.smallInputs && r.ta === 'manipulation' && r.btnTa === 'manipulation' && r.vp && r.scale === 1; if (pass) ok++; console.log((pass ? 'PASS' : 'FAIL') + ' nozoom ' + k + ' ' + JSON.stringify(r)); } console.log('NOZOOM ' + ok + '/' + n); console.log('errors', JSON.stringify(errs)); })()

diff --git a/tests/trivia_webkit.test.js b/tests/trivia_webkit.test.js
@@ -27,6 +27,7 @@ function mock(fn, args, who) { if (global.MOCKX) { const x = global.MOCKX(fn, ar
     case 'ytAutoLog': S.ytlog.push(args[0]); return { title: args[0].t, logged: true };
     case 'triviaResults': return [{ id: 'daily-2026-10-13', d: '2026-10-13', m: 'Daily', p: 'Sam', sc: 640, ok: 5, n: 8, res: 'Win' }, { id: 'daily-2026-10-13', d: '2026-10-13', m: 'Daily (catch-up)', p: 'Lewy', sc: 410, ok: 3, n: 8, res: 'Loss' }];
     case 'triviaDaily': if (S.clips) return { d: '2026-10-14', today: true, qs: S.clips.map(c => ({ kind: 'sound', audio: c.url, q: 'EARS ON! WHICH TITLE IS THIS MUSIC FROM?', opts: ['Whiplash', 'Shrek', 'Inception', 'Garfield'], alt: { kind: 'year', q: 'ALT: WHAT YEAR DID INCEPTION COME OUT?', opts: ['2008', '2010', '2012'] } })), mine: null, other: null, both: false, stats: {} }; return { d: '2026-10-14', today: true, qs: [{ kind: 'sound', audio: S.clip, q: 'EARS ON! WHICH TITLE IS THIS MUSIC FROM?', opts: ['Whiplash', 'Shrek', 'Inception', 'Garfield'] }, { kind: 'quote', quote: 'Downward is the only way forward.', q: 'IN INCEPTION, WHICH CHARACTER SAYS THIS?', opts: ['Cobb', 'Arthur', 'Saito'] }], mine: null, other: null, both: false, stats: {} };
+    case 'getOurTop': return S.ot || null; case 'setOurTop': S.ot = args[0] && args[0].length ? { list: args[0], by: who } : null; S.calls.push('setOurTop'); return S.ot || { list: [] };
     case 'adQuotes': return [{ q: 'Downward is the only way forward.', who: 'Cobb', t: 'Inception' }];
     case 'getInterest': return S.int;
     case 'setInterest': { const [w, k, v, m] = args; const o = S.int[w]; if (!v) delete o[k]; else o[k] = Object.assign({}, o[k] || {}, m || {}, { v, at: Date.now() }); return o; }

diff --git a/tests/ghost58.steps.js b/tests/ghost58.steps.js
@@ -1,0 +1,8 @@
+(async () => { await p.evaluate(() => { const s = document.getElementById('splash'); s && s.remove(); navTap('navYT'); }); await p.waitForSelector('#ytBody [data-ytv][data-ytid]');
+const cards = await p.evaluate(() => [...document.querySelectorAll('#ytBody [data-ytv][data-ytid]')].slice(0, 2).map((c, i) => { c.id = 'gc' + i; return c.dataset.ytid; }));
+const box = await p.evaluate(() => { const r = document.getElementById('gc0').getBoundingClientRect(); return { x: r.left + r.width / 2, y: r.top + r.height / 2 }; });
+await p.touchscreen.tap(box.x, box.y); await p.waitForTimeout(150);
+await p.evaluate(() => { try { ytDraw(); } catch (e) {} const a = document.querySelector('#ytBody [data-ytv][data-ytid]:not(#gc0)'); }); // re-render shifts list
+await p.evaluate(() => { const c = [...document.querySelectorAll('#ytBody [data-ytv][data-ytid]')].find(x => x.dataset.ytid !== document.getElementById('ytp').dataset.v); const r = c.getBoundingClientRect(); const el = document.elementFromPoint(r.left + 5, r.top + 5); (el || c).click(); }); // delayed ghost click on a different card
+await p.waitForTimeout(800); const r = await p.evaluate(want => ({ src: ((document.querySelector('#ytp .yvb iframe') || document.querySelector('#trlV iframe') || {}).src || '').match(/[?&]v=([\w-]+)/)?.[1], want, log: YTO.log.map(x => x.k + ':' + x.id + (x.ok ? '' : ' X')) }), cards[0]);
+console.log((r.src === r.want ? 'PASS' : 'FAIL') + ' ghost tap ignored ' + JSON.stringify(r)); console.log('errors', JSON.stringify(errs)); })()

diff --git a/tests/search58.steps.js b/tests/search58.steps.js
@@ -1,0 +1,4 @@
+(async () => { await p.evaluate(() => { const s = document.getElementById('splash'); s && s.remove(); });
+const r = await p.evaluate(() => { const el = document.createElement('div'); el.id = 'tst58'; document.querySelector('#v-home').prepend(el); const T = [{ id: 1, tv: false, title: 'Adam', year: 2001, genres: [] }], V = Array.from({ length: 30 }, (_, i) => ({ id: 100 + i, tv: i % 5 === 0, title: i === 3 ? 'Hustle' : 'Film ' + i, year: i === 3 ? 2022 : 2000 + i, genres: ['Comedy'], via: 'Adam Sandler (as X)', person: 'Adam Sandler' }));
+  renderTm(el, { v: 2, results: T.concat(V), titles: 1, people: [{ name: 'Adam Sandler' }] }, 3, 'qTm'); return { tiles: el.querySelectorAll('[data-tm]').length, heads: [...el.querySelectorAll('.h')].map(h => h.innerText), hustle: el.innerText.includes('Hustle'), scroll: getComputedStyle(el.querySelector('.tm58')).overflowY }; });
+await p.screenshot({ path: '/workspace/logged-site/shots/r49_search_filmography.png' }); console.log('SEARCH', JSON.stringify(r)); console.log('errors', JSON.stringify(errs)); })()

diff --git a/app/sw.js b/app/sw.js
@@ -1,5 +1,5 @@
 /* Logged service worker: app shell network-first (so git push updates land), static + posters cache-first. Never caches the API. */
-var V = 'logged-1791972022', SHELL = ['./', 'index.html', 'manifest.json', 'icon-192.png', 'icon-512.png', 'apple-touch-icon.png'];
+var V = 'logged-1791973229', SHELL = ['./', 'index.html', 'manifest.json', 'icon-192.png', 'icon-512.png', 'apple-touch-icon.png'];
 self.addEventListener('install', function (e) { self.skipWaiting(); e.waitUntil(caches.open(V).then(function (c) { return c.addAll(SHELL).catch(function () {}); })); });
 self.addEventListener('activate', function (e) { e.waitUntil(caches.keys().then(function (ks) { return Promise.all(ks.filter(function (k) { return k !== V && k.indexOf('logged-') === 0; }).map(function (k) { return caches.delete(k); })); }).then(function () { return self.clients.claim(); })); });
 self.addEventListener('fetch', function (e) {
